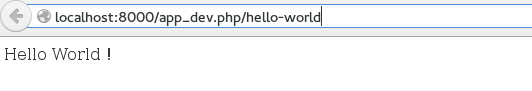
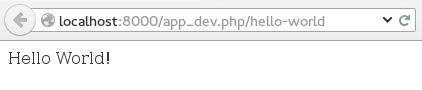
corrected the screenshots and texts for chapter-04

Changed region(s): [[0.0, 0.0, 1.0, 0.4222], [0.0, 0.5111, 0.2773, 0.7111], [0.0, 0.4444, 1.0, 0.4667]]

diff --git a/part-02/chapter-04/section-03.md b/part-02/chapter-04/section-03.md
@@ -48,7 +48,7 @@
 
 模板引擎的目的就是要简化前端开发人员的工作。一位前端人员未必会写PHP代码，或许也不会写Twig代码，但Twig非常容易上手，写起来快，读起来容易，而且它包含一些很有用的功能。比如说你的前端人员要把标题大写，他只要写`{{ title|upper }}`，这里`title`是包含文章标题内容的变量。它看起来可比`<?php echo strtoupper($titre); ?>`优雅多了，不是吗？
 
-在专门讨论Twig的章节里，我们会看到它提供的很多功能可以简化开发。现在我们继续来改进我们的“Hello World !”程序。
+在专门讨论Twig的章节里，我们会看到它提供的很多功能可以简化开发。现在我们继续来改进我们的“Hello World!”程序。
 
 ## 在Symfony2里使用Twig ##
 
@@ -76,13 +76,13 @@
         <title>Bienvenue sur ma première page avec OpenClassrooms !</title>
     </head>
     <body>
-        <h1>Hello World !</h1>
+        <h1>Hello World!</h1>
         
         <p>
             Le Hello World est un grand classique en programmation.
             Il signifie énormément, car cela veut dire que vous avez
             réussi à exécuter le programme pour accomplir une tâche simple :
-            afficher ce hello world !
+            afficher ce hello World!
         </p>
     </body>
 </html>
@@ -106,7 +106,7 @@
 
 namespace OC\PlatformBundle\Controller;
 
-// 别忘了使用use :
+// 别忘了使用use：
 use Symfony\Bundle\FrameworkBundle\Controller\Controller;
 use Symfony\Component\HttpFoundation\Response;
 
@@ -122,7 +122,7 @@ class AdvertController extends Controller
 
 我们的控制器只是继承了Symfony2提供的基础控制器，然后加了一行获取模板生成内容的代码。
 
-定义模板名的惯例和定义控制器名的惯例是一样的：`NameOfBundle:NameOfController:NameOfAction`。然后我们修改了创建`Response`实例的代码，把新加的`$content`变量传给`Response`的构造函数，而不再是硬编码的“Hello World !”了。
+定义模板名的惯例和定义控制器名的惯例是一样的：`NameOfBundle:NameOfController:NameOfAction`。然后我们修改了创建`Response`实例的代码，把新加的`$content`变量传给`Response`的构造函数，而不再是硬编码的“Hello World!”了。
 
 > 怎么理解`$this->get('templating')`这段代码？
 > 好问题！在控制器里形如`$this->get('my_service')`的函数调用会返回一个名叫`my_service`的对象，这个对象可以用来完成一些任务。例如这里的`templating`对象可以通过它的`render`方法来获取模板生成的内容。这些称之为“服务（service）”的对象是Symfony框架里非比寻常的特色。我们之后会有专门的章节详细讨论它。目前请耐心等等，你只要知道怎么使用这些对象，而先不用管它们是怎么来的。
@@ -131,7 +131,7 @@ class AdvertController extends Controller
 
 ![](./images/hello_world_twig.png)
 
-> 请留意页面底部的工具栏。我已经告诉过你：当在开发环境下，Symfony2检测到关闭标签`</body>`时，就会自动加上工具栏。正是因为这个原因我们之前的“Hello World !”例子里没有出现工具栏。
+> 请留意页面底部的工具栏。我已经告诉过你：当在开发环境下，Symfony2检测到关闭标签`</body>`时，就会自动加上工具栏。正是因为这个原因我们之前的“Hello World!”例子里没有出现工具栏。
 
 你想要试试倒腾一下Twig的变量吗？请修改控制器，在`render()`方法里增加进第二个参数，这个参数是一个关联数组，其中元素的键是变量名，元素的值是变量值。
 
@@ -149,7 +149,7 @@ $content = $this
 接着，修改模板代码，把`<h1>`标签改成下面的内容：
 
 ```twig
-<h1>Hello {{ name }} !</h1>
+<h1>Hello {{ name }}!</h1>
 ```
 
 完成！刷新下页面。你看到变化了吧！在专门讨论Twig的章节里，我们再具体讨论模板变量的传递。

diff --git a/part-02/chapter-04/section-02.md b/part-02/chapter-04/section-02.md
@@ -29,7 +29,7 @@ class AdvertController
 {
     public function indexAction()
     {
-        return new Response("Hello World !");
+        return new Response("Hello World!");
     }
 }
 ```
@@ -44,9 +44,9 @@ class AdvertController
 - 第7行：我们的控制器需要用到`Response`的一个实例，所以这里要用`use`来声明一下。
 - 第9行：控制器的名字要和它所在文件的名字一致（后缀除外），这样自动加载才能正常工作。
 - 第11行：我们定义了`indexAction()`方法。别忘了在方法名后面加上`Action`后缀。
-- 第13行：我们创建一个很简单的应答。`Response`构造函数里的参数就是你发送给网站用户的网页内容，这里就是“Hello World !”。然后返回这个应答对象。
+- 第13行：我们创建一个很简单的应答。`Response`构造函数里的参数就是你发送给网站用户的网页内容，这里就是“Hello World!”。然后返回这个应答对象。
 
-当然，显示的网页还不太漂亮，但至少我们达到了自己动手来显示“Hello World !”的目标了！
+当然，显示的网页还不太漂亮，但至少我们达到了自己动手来显示“Hello World!”的目标了！
 
 > 为什么方法名是`indexAction()`？我还是不太明白。
 
